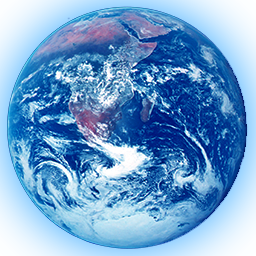
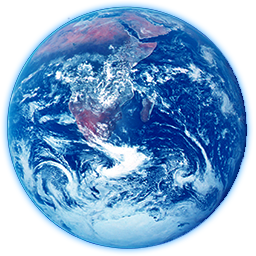
Polished title and intro scenes

Changed region(s): [[0.0, 0.0, 1.0, 1.0]]

diff --git a/src/Scene/ScenesImpl/SceneTitle.cpp b/src/Scene/ScenesImpl/SceneTitle.cpp
@@ -5,7 +5,7 @@
 #include <Scene/ScenesImpl/SceneMainMenu.h>
 #include <Input/InputContextManager.h>
 
-#include <UI/Button.h>
+#include <UI/UIRepository.h>
 #include <VMU/SaveManager.h>
 
 void SceneTitle::OnActivated()
@@ -26,6 +26,9 @@ void SceneTitle::OnActivated()
             m_AdvTextures[y*widthCount+x] = LoadTexture(TextFormat(GET_ASSET_FROM_CD("titlescreen/BG_TS_%01i%01i.png"), y+1, x+1));
         }
     }
+
+    m_EarthSourceRect = {0, 0, 256, 256};
+    m_EarthDestRect = { WIDTH / 2, HEIGHT + 200, WIDTH, WIDTH };
 
     SaveGameManager::GetInstance().LoadData();
 }
@@ -55,12 +58,14 @@ void SceneTitle::OnDraw2D()
            DrawTexture(m_AdvTextures[y*widthCount+x], x * 256, y * 256, WHITE);
         }
     }
-    DrawTextureEx(m_EarthTexture, Vector2{128, HEIGHT-128}, 0, 2.f, WHITE);
+    DrawTextEx(UIRepository::GetInstance().GetButtonFont(), "THE LAST ESCAPE", Vector2{50, 60}, 38, 1, WHITE);
+    DrawTexturePro(m_EarthTexture, m_EarthSourceRect, m_EarthDestRect, Vector2{ m_EarthDestRect.width / 2, m_EarthDestRect.height / 2 }, m_Rotation, WHITE);
     DrawTextEx(m_AdvFont, "PRESS START", Vector2{ 200, HEIGHT-150 }, 32, 1, Fade(WHITE, fabs(sin(GetTime()*1.5f))));
 }
 
 void SceneTitle::OnUpdate()
 {
+    m_Rotation -= GetFrameTime() * m_RotationSpeed;
     if(IsGamepadAvailable(0) && InputContextManager::GetInstance().CurrentInputComtext() == InputContext::Default)
     {
         if(IsGamepadButtonPressed(0, GAMEPAD_BUTTON_MIDDLE_RIGHT))

diff --git a/src/Scene/ScenesImpl/SceneIntro.cpp b/src/Scene/ScenesImpl/SceneIntro.cpp
@@ -66,7 +66,8 @@ void SceneIntro::OnDraw2D()
     }
     else if (m_State == 4 || m_State == 5)
     {
-        DrawTexture(m_KOSLogo, 50, 0, Fade(WHITE, m_Alpha));
+        //DrawTexture(m_KOSLogo, 50, 0, Fade(WHITE, m_Alpha));
+        DrawTexturePro(m_KOSLogo, Rectangle{0, 0, 512, 512}, Rectangle{ 200, 120, 256, 256 }, Vector2{0, 0}, 0.f, Fade(WHITE, m_Alpha));
     }
 }
 

diff --git a/src/Scene/ScenesImpl/SceneTitle.h b/src/Scene/ScenesImpl/SceneTitle.h
@@ -18,9 +18,13 @@ private:
     Font m_AdvFont;
     Texture2D* m_AdvTextures;
     Texture2D m_EarthTexture;
+    Rectangle m_EarthSourceRect;
+    Rectangle m_EarthDestRect;
 
     const int8_t widthCount = 3;
     const int8_t heightCount = 2;
+    const float m_RotationSpeed{2.f};
+    float m_Rotation{0.f};
 
     Camera m_Camera;
 };
